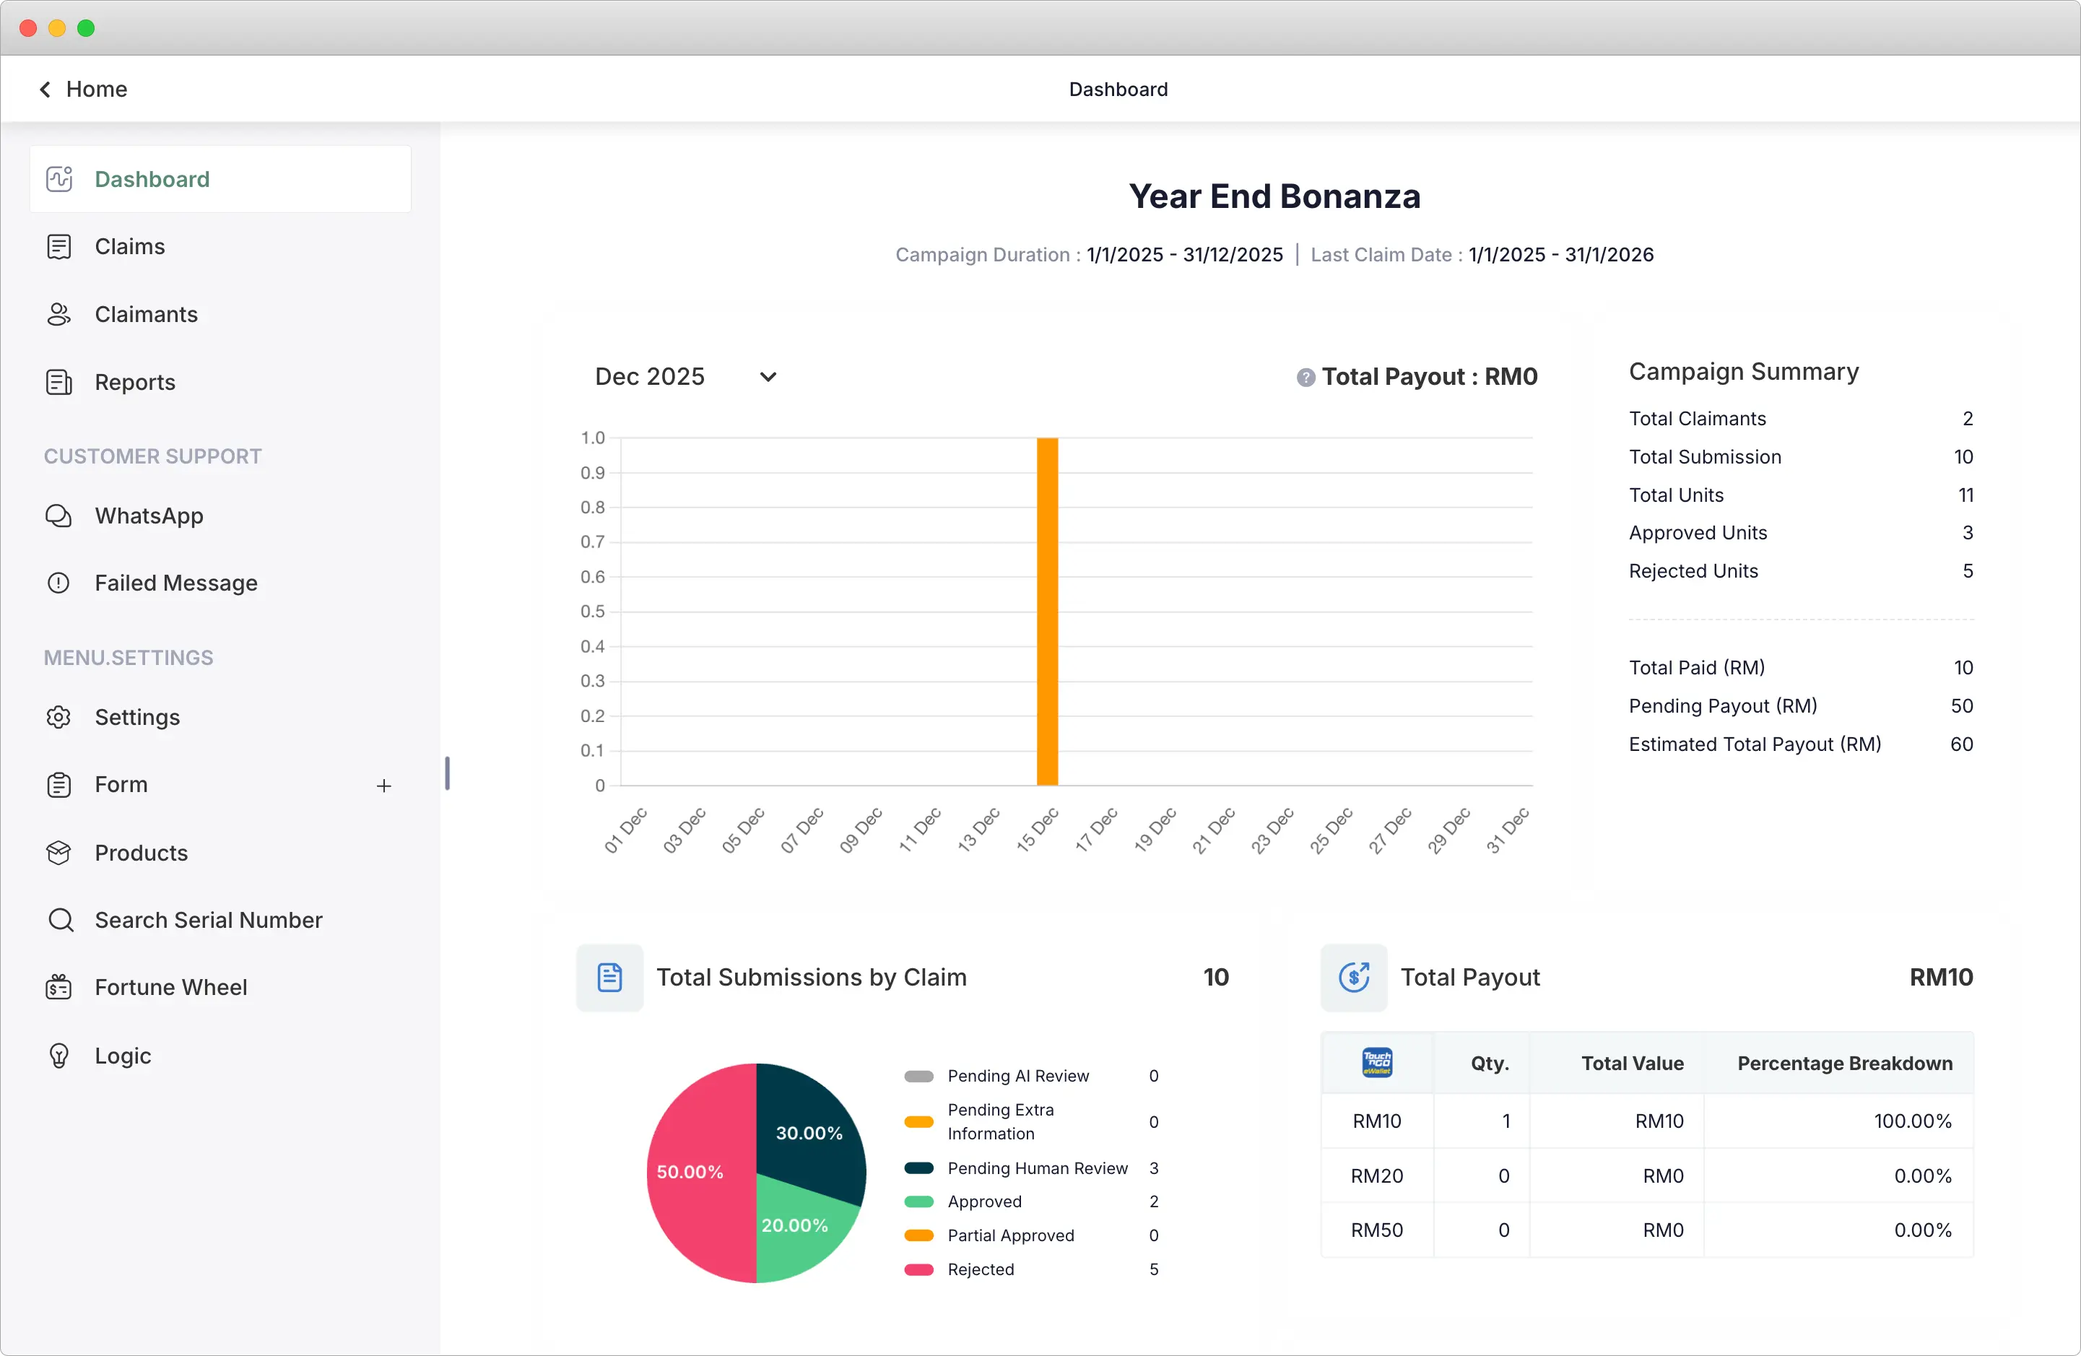
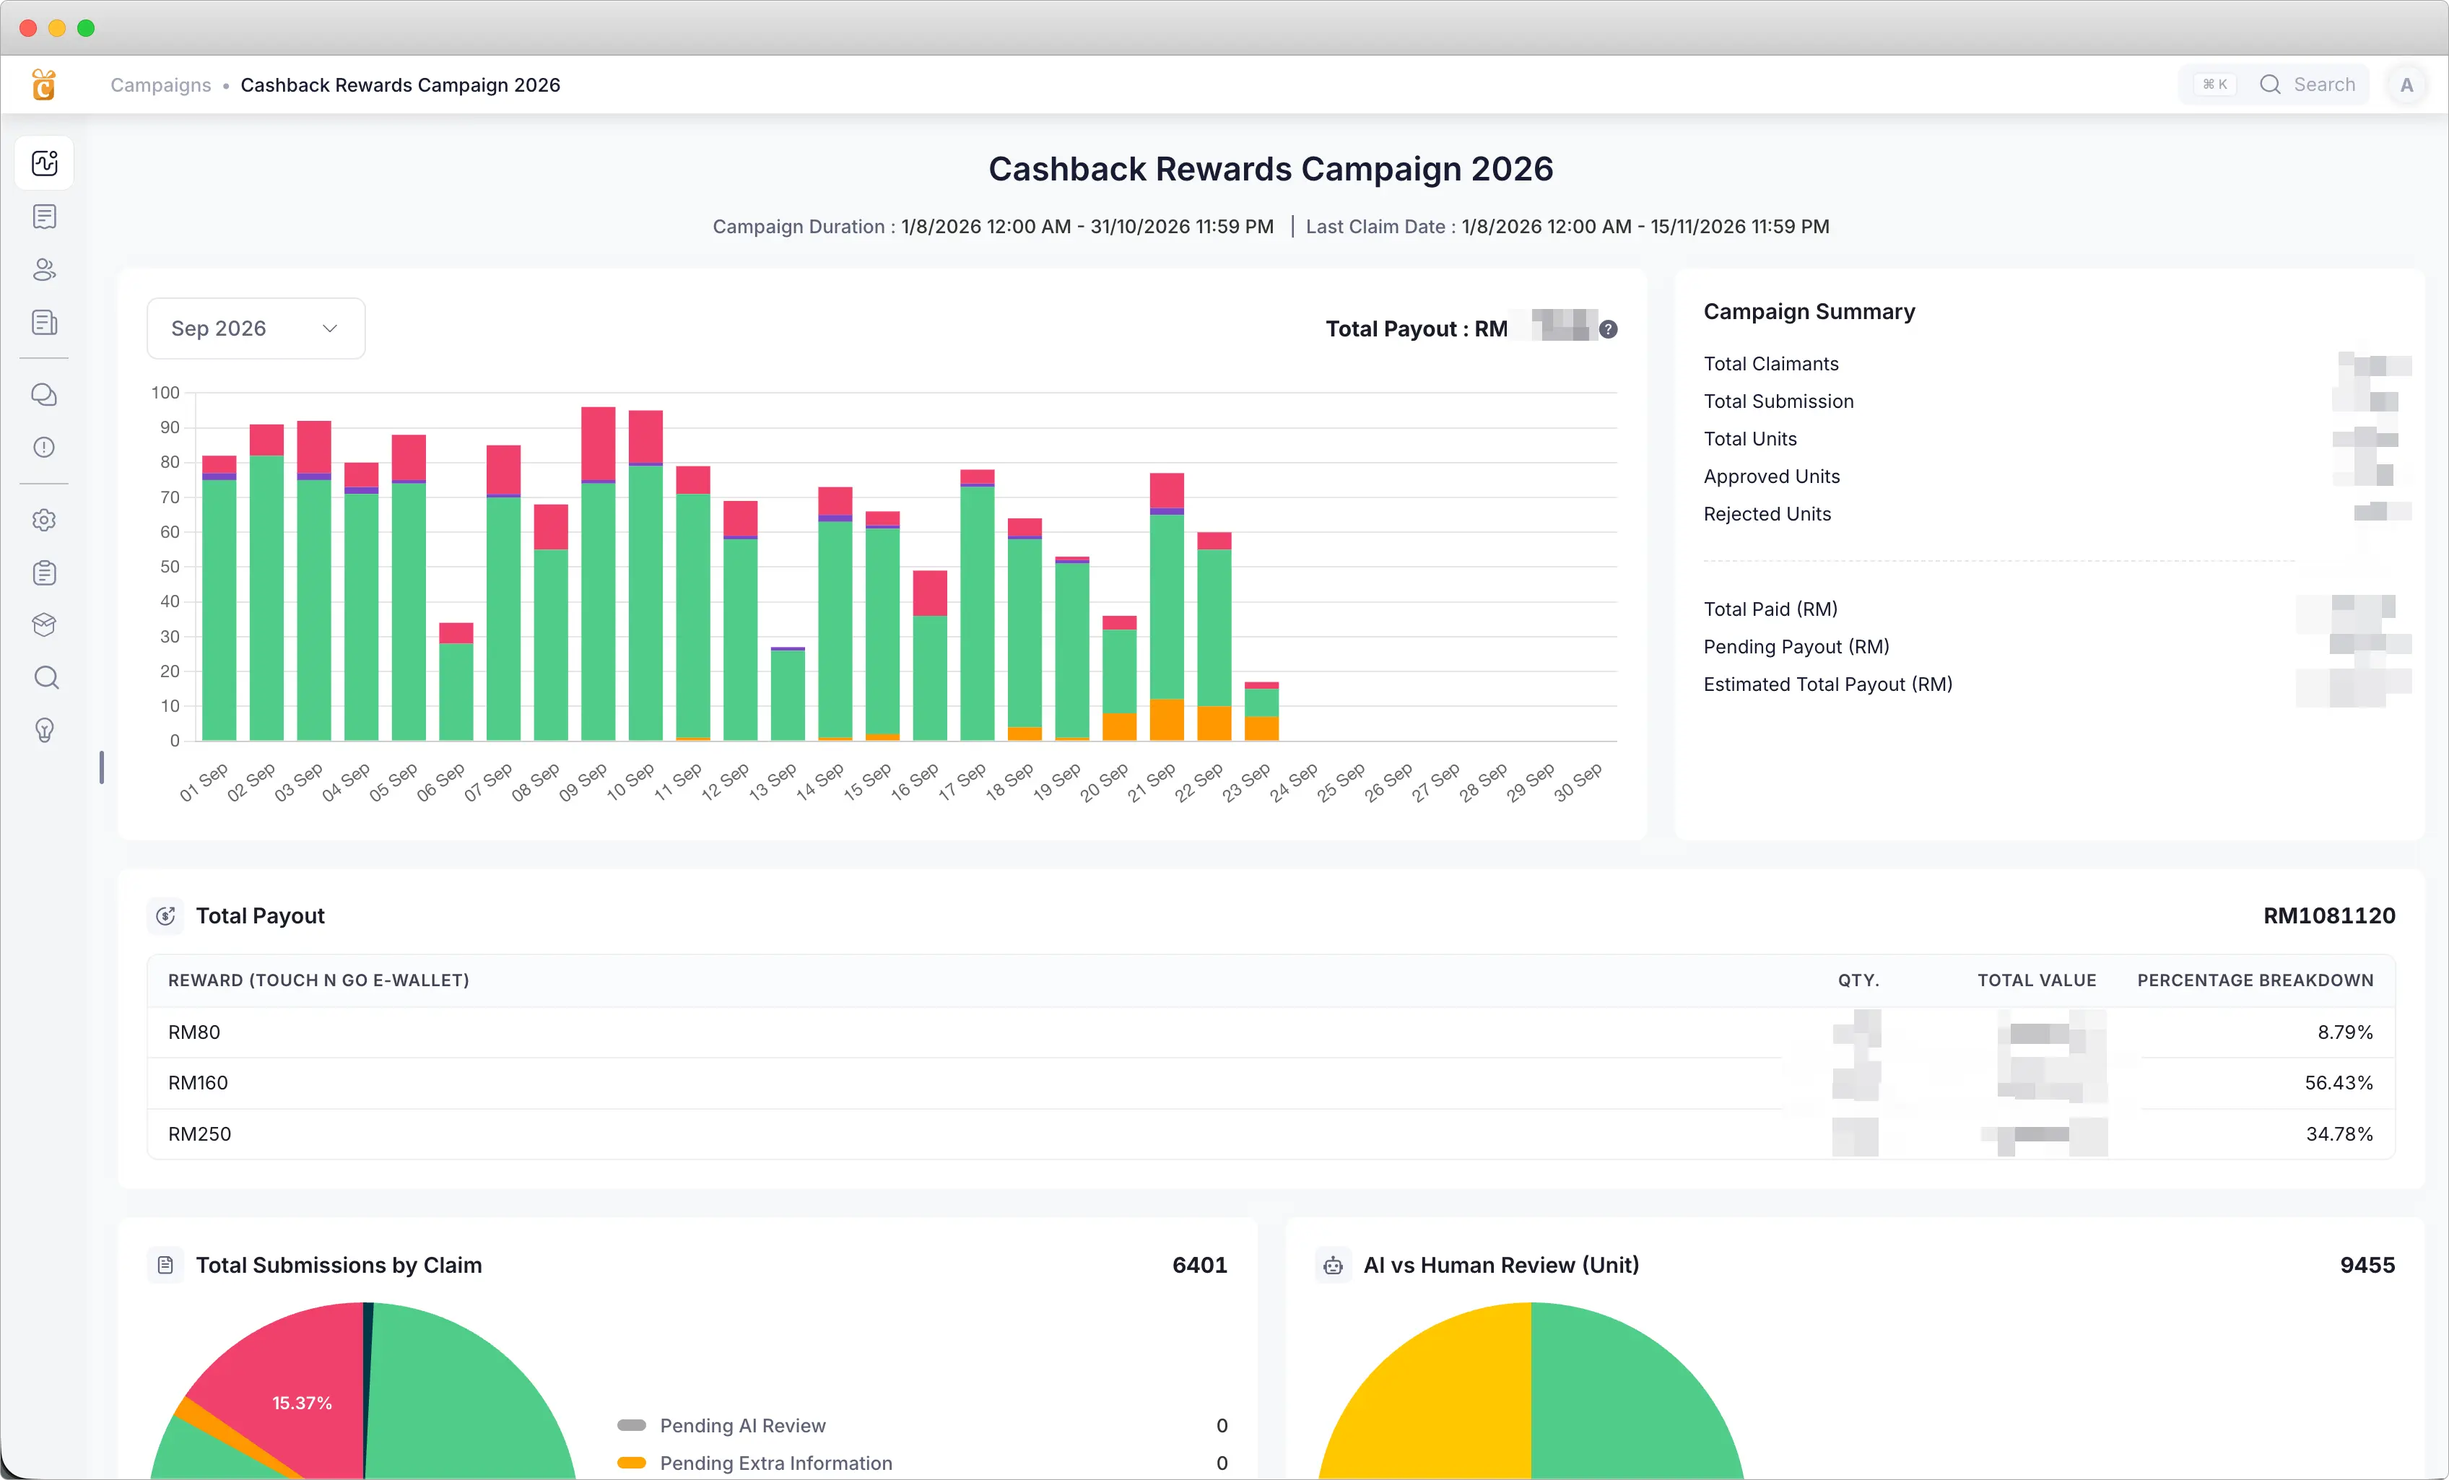
style: replace footer credit with location and social links, update ClaimNow and LeafCRM screenshots

diff --git a/app/globals.css b/app/globals.css
@@ -1293,13 +1293,37 @@ textarea {
   margin: 0 auto;
   display: flex;
   align-items: center;
-  justify-content: center;
+  justify-content: space-between;
+  gap: 0.25rem 1rem;
+  flex-wrap: wrap;
+  padding: 0 2rem;
 }
 
 .footer-copyright {
   color: var(--color-text-light);
   font-size: 0.9rem;
   text-align: center;
+}
+
+.footer-links {
+  display: flex;
+  flex-wrap: wrap;
+  justify-content: center;
+  gap: 0.25rem 1.25rem;
+}
+
+.footer-links a {
+  display: inline-flex;
+  align-items: center;
+  gap: 0.15rem;
+  color: var(--color-text-light);
+  font-size: 0.9rem;
+  text-decoration: none;
+  transition: color 0.2s ease;
+}
+
+.footer-links a:hover {
+  color: var(--color-accent-blue);
 }
 
 /* Tablet - What I Do grid */
@@ -1506,9 +1530,15 @@ textarea {
     margin-top: 0.5rem;
   }
 
+  /* Bottom padding clears the fixed nav dock (56px tall, 20px from the bottom) */
   .footer {
-    padding: 2rem 1.5rem;
+    padding: 2rem 1.5rem calc(76px + 1.5rem);
     margin-top: 0;
+  }
+
+  .footer-content {
+    flex-direction: column;
+    padding: 0;
   }
 
   .footer-copyright {

diff --git a/components/Footer.tsx b/components/Footer.tsx
@@ -1,6 +1,8 @@
 'use client';
 
 import { motion } from 'framer-motion';
+import { ArrowUpRight } from 'lucide-react';
+import { socialLinks } from '@/lib/portfolio-data';
 
 export default function Footer() {
   const currentYear = new Date().getFullYear();
@@ -14,9 +16,15 @@ export default function Footer() {
         viewport={{ once: true }}
         transition={{ duration: 0.6 }}
       >
-        <p className="footer-copyright">
-          © {currentYear} Afif Zafri. Built with Next.js
-        </p>
+        <p className="footer-copyright">© {currentYear} Afif Zafri · Selangor, Malaysia</p>
+        <nav className="footer-links" aria-label="Social links">
+          {socialLinks.map((link) => (
+            <a key={link.label} href={link.url} target="_blank" rel="noopener noreferrer">
+              {link.label}
+              <ArrowUpRight size={14} aria-hidden="true" />
+            </a>
+          ))}
+        </nav>
       </motion.div>
     </footer>
   );
